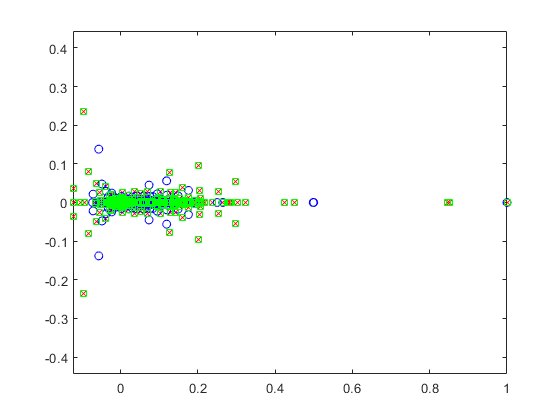
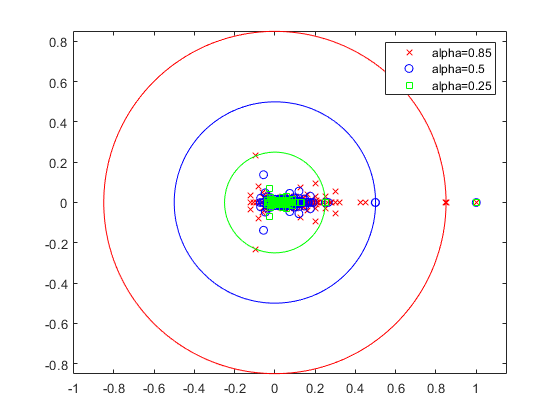
finished everything except explanation for 1d

diff --git a/matlab/hw9p3hdriver.m b/matlab/hw9p3hdriver.m
@@ -1,0 +1,40 @@
+% call hw9p3g.m
+[~,~,X,Lambda] = hw9p3g(M,0.85);
+% compute x, normalize, and ensure its positive
+[~,i] = max(max(Lambda));
+x = X(:,i)/norm(X(:,i),1);
+if x(1) < 0
+    x = -x;
+end
+% sort components of x
+[xsort,index] = sort(x,'descend');
+% print largest components along with the corresponding URL names
+url(index(1:10))
+
+% repeat for alpha = 0.5, 0.25
+
+% 0.5
+[~,~,X,~] = hw9p3g(M,0.5);
+% compute x, normalize, and ensure its positive
+[~,i] = max(max(Lambda));
+x = X(:,i)/norm(X(:,i),1);
+if x(1) < 0
+    x = -x;
+end
+% sort components of x
+[xsort,index] = sort(x,'descend');
+% print largest components along with the corresponding URL names
+url(index(1:10))
+
+% 0.25
+[~,~,X,Lambda] = hw9p3g(M,0.25);
+% compute x, normalize, and ensure its positive
+[~,i] = max(max(Lambda));
+x = X(:,i)/norm(X(:,i),1);
+if x(1) < 0
+    x = -x;
+end
+% sort components of x
+[xsort,index] = sort(x,'descend');
+% print largest components along with the corresponding URL names
+url(index(1:10))

diff --git a/matlab/hw9p3gdriver.m b/matlab/hw9p3gdriver.m
@@ -1,6 +1,5 @@
 % call hw9p3g.m
 [~,~,~,Lambda] = hw9p3g(M,0.85);
-
 % plot all the eigenvalues as complex numbers in the complex plane
 lambda = diag(Lambda);
 plot(real(lambda),imag(lambda),'rx'), axis equal
@@ -10,14 +9,25 @@ hold on
 
 % call hw9p3g.m
 [~,~,~,Lambda] = hw9p3g(M,0.5);
-
 % plot all the eigenvalues as complex numbers in the complex plane
 lambda = diag(Lambda);
 plot(real(lambda),imag(lambda),'bo'), axis equal
 
 % call hw9p3g.m
-[~,~,~,Lambda] = hw9p3g(M,0.85);
-
+[~,~,~,Lambda] = hw9p3g(M,0.25);
 % plot all the eigenvalues as complex numbers in the complex plane
 lambda = diag(Lambda);
 plot(real(lambda),imag(lambda),'gs'), axis equal
+
+% plot circles
+increment = 0:pi/100:2*pi;
+xcoord = 0.85*cos(increment);
+ycoord = 0.85*sin(increment);
+plot(xcoord,ycoord,'r');
+xcoord = 0.5*cos(increment);
+ycoord = 0.5*sin(increment);
+plot(xcoord,ycoord,'b');
+xcoord = 0.25*cos(increment);
+ycoord = 0.25*sin(increment);
+plot(xcoord,ycoord,'g');
+legend('alpha=0.85','alpha=0.5','alpha=0.25')

diff --git a/matlab/hw9p3jdriver.m b/matlab/hw9p3jdriver.m
@@ -1,0 +1,25 @@
+% call hw9p3i for power method
+[v,residuals,count] = hw9p3i(A,0.85);
+figure(1)
+plot((count-6):(count-1),residuals((count-6):(count-1)));
+[xsort,index] = sort(v,'descend');
+% print largest components along with the corresponding URL names
+url(index(1:10))
+
+% repeat for alpha=0.5,0.25
+
+% call hw9p3i for power method
+[v,residuals,count] = hw9p3i(A,0.5);
+figure(2)
+plot((count-6):(count-1),residuals((count-6):(count-1)));
+[xsort,index] = sort(v,'descend');
+% print largest components along with the corresponding URL names
+url(index(1:10))
+
+% call hw9p3i for power method
+[v,residuals,count] = hw9p3i(A,0.25);
+figure(3)
+plot((count-6):(count-1),residuals((count-6):(count-1)));
+[xsort,index] = sort(v,'descend');
+% print largest components along with the corresponding URL names
+url(index(1:10))

diff --git a/matlab/hw9p3idriver.m b/matlab/hw9p3idriver.m
@@ -1,0 +1,29 @@
+% compute A, and run hw9p3i
+[A,~,~,Lambda] = hw9p3g(M,0.85);
+[v,residuals,count] = hw9p3i(A,0.85);
+figure(1)
+plot((count-6):(count-1),residuals((count-6):(count-1)));
+% compare to eig
+lambda = diag(Lambda);
+sort(lambda,'descend');
+lambda(2)
+
+% repeat for alpha=0.5,0.25
+
+[A,~,~,Lambda] = hw9p3g(M,0.5);
+[v,residuals,count] = hw9p3i(A,0.5);
+figure(2)
+plot((count-6):(count-1),residuals((count-6):(count-1)));
+% compare to eig
+lambda = diag(Lambda);
+sort(lambda,'descend');
+lambda(2)
+
+[A,~,~,Lambda] = hw9p3g(M,0.25);
+[v,residuals,count] = hw9p3i(A,0.25);
+figure(3)
+plot((count-6):(count-1),residuals((count-6):(count-1)));
+% compare to eig
+lambda = diag(Lambda);
+sort(lambda,'descend');
+lambda(2)

diff --git a/matlab/hw9p3i.m b/matlab/hw9p3i.m
@@ -1,0 +1,28 @@
+function [v,residuals,count] = hw9p3i(A,alpha)
+% implements the power method for computing the desired page rank vector x,
+% which requires matrix-vector products using the formula for G
+% use initial vector (1/n)e
+
+done = false;
+[n,~] = size(A);
+tol = 10^-15;
+e = ones(n,1);
+v = (1/n)*e;
+
+count = 1;
+while ~done
+    v_new = alpha*A*v+(1-alpha)*1/n*(e'*v)*e;
+    
+    % termination condition
+    mu = norm(v_new-v,1);
+    residuals(count) = mu;
+    if mu < tol
+        done = true;
+    end
+    
+    % update v
+    v = v_new;
+    count = count+1;
+end
+
+end
